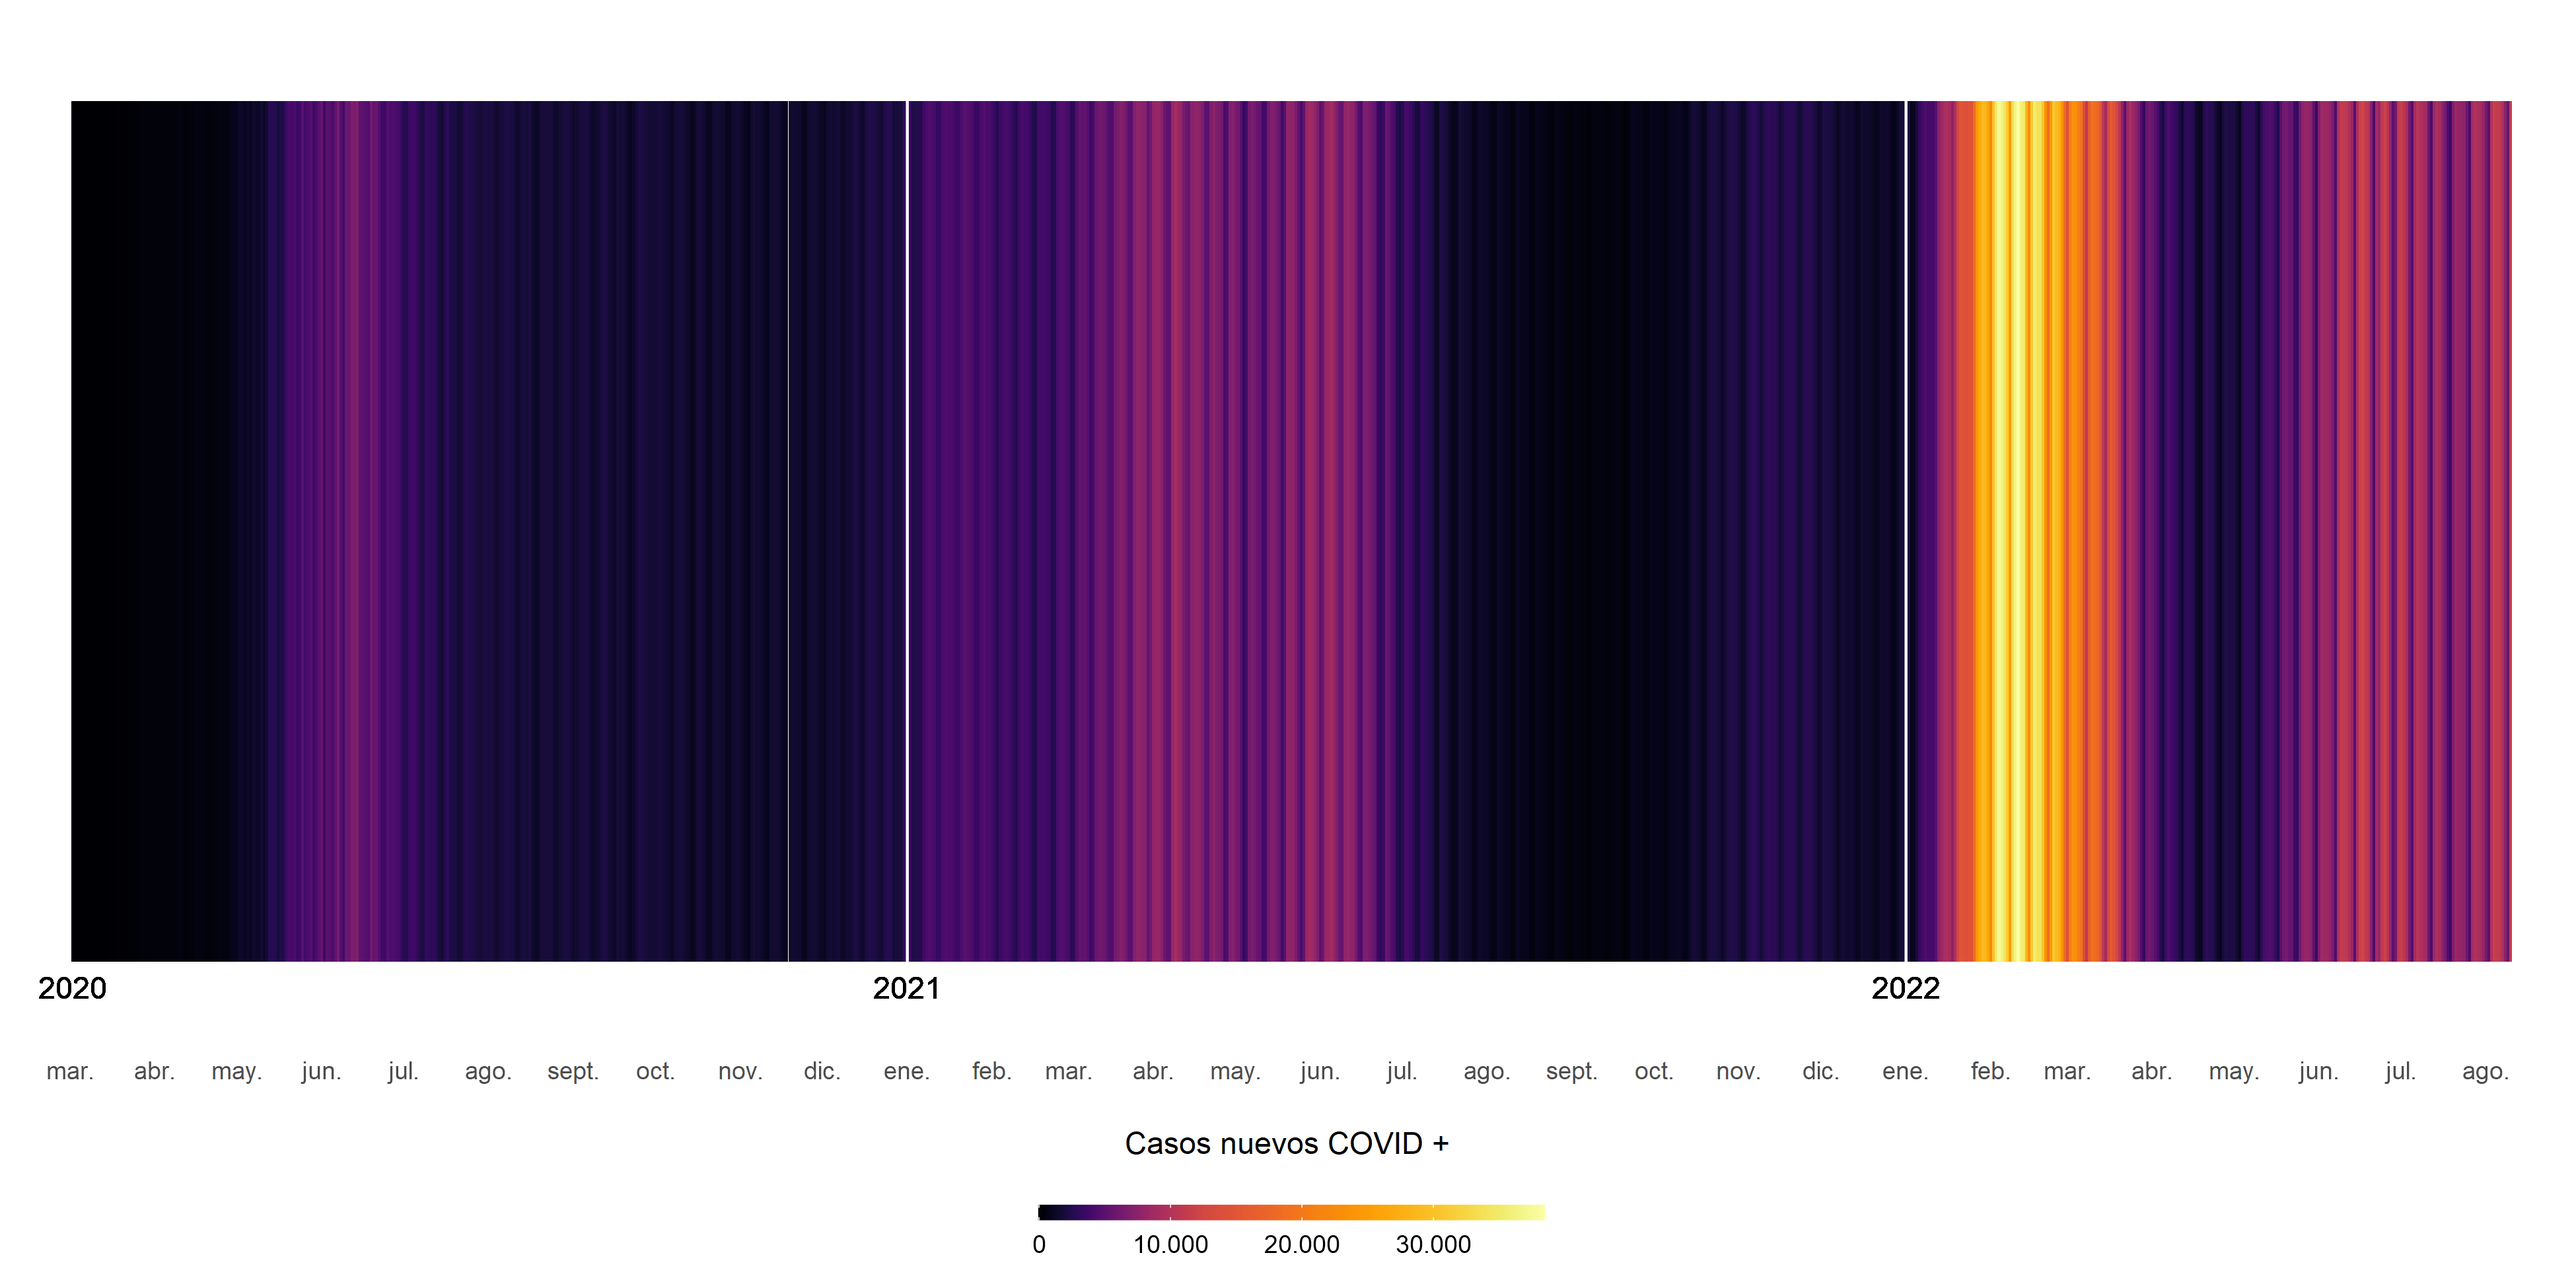
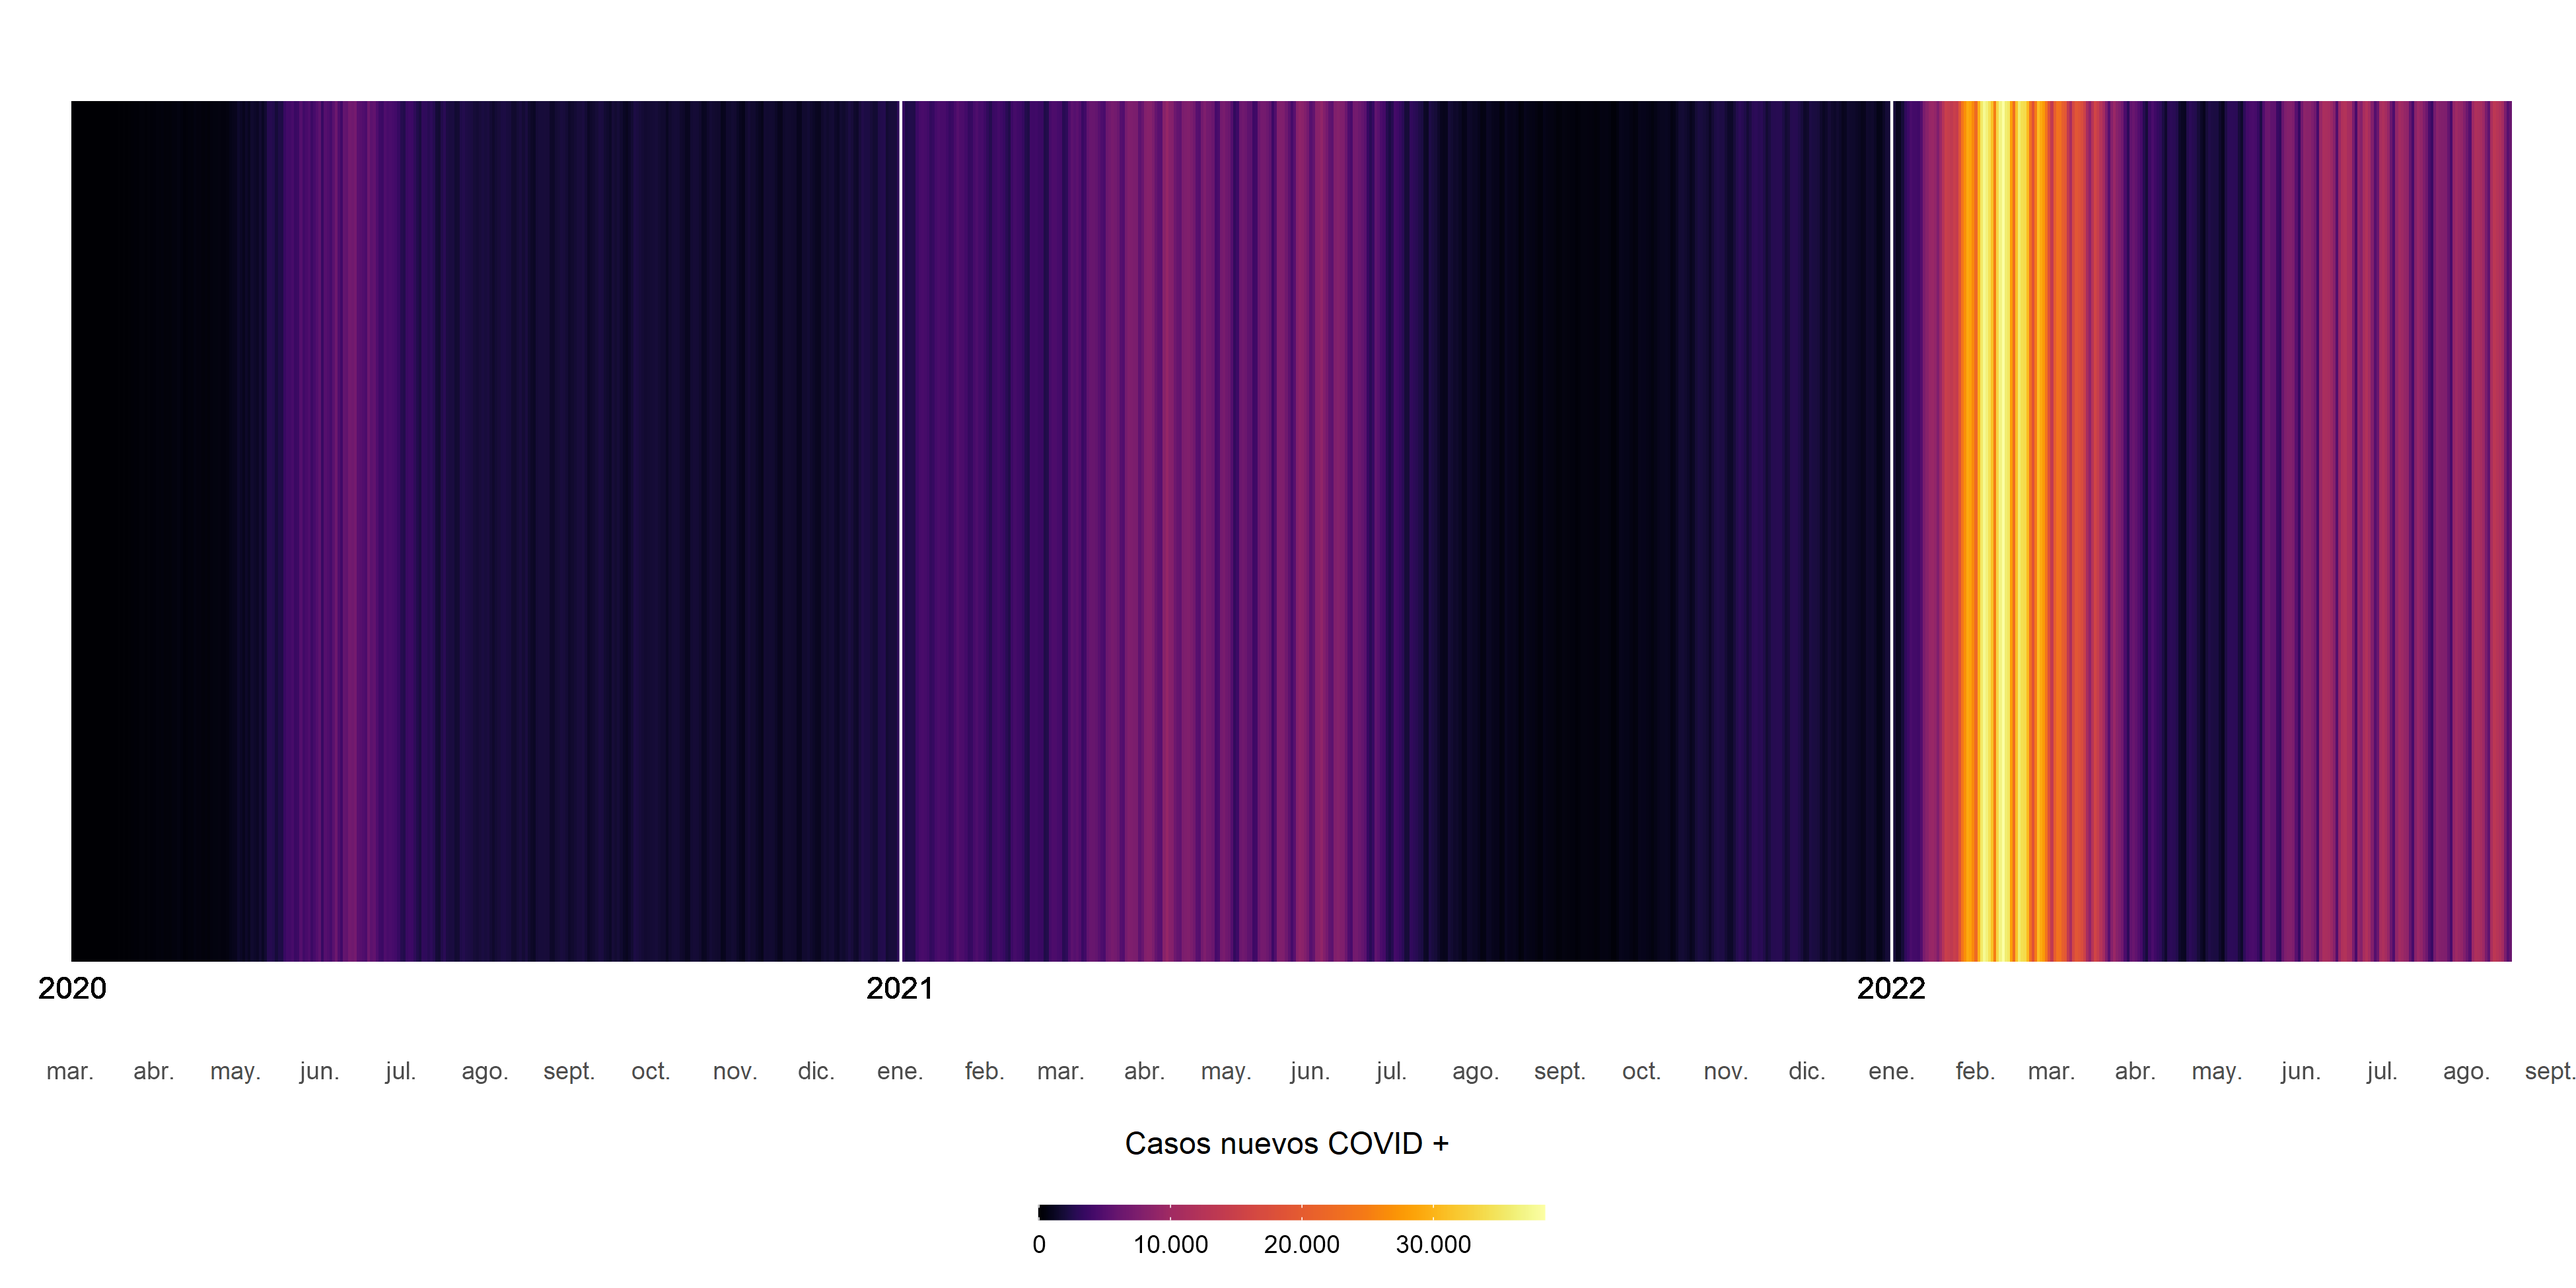
F5 18_08

diff --git a/README.md b/README.md
@@ -1,6 +1,6 @@
 # covid_scl
 
-COVID's situation in Chile. **Last update: 11-08-2022**
+COVID's situation in Chile. **Last update: 18-08-2022**
 
 ## COVID stripes
 
